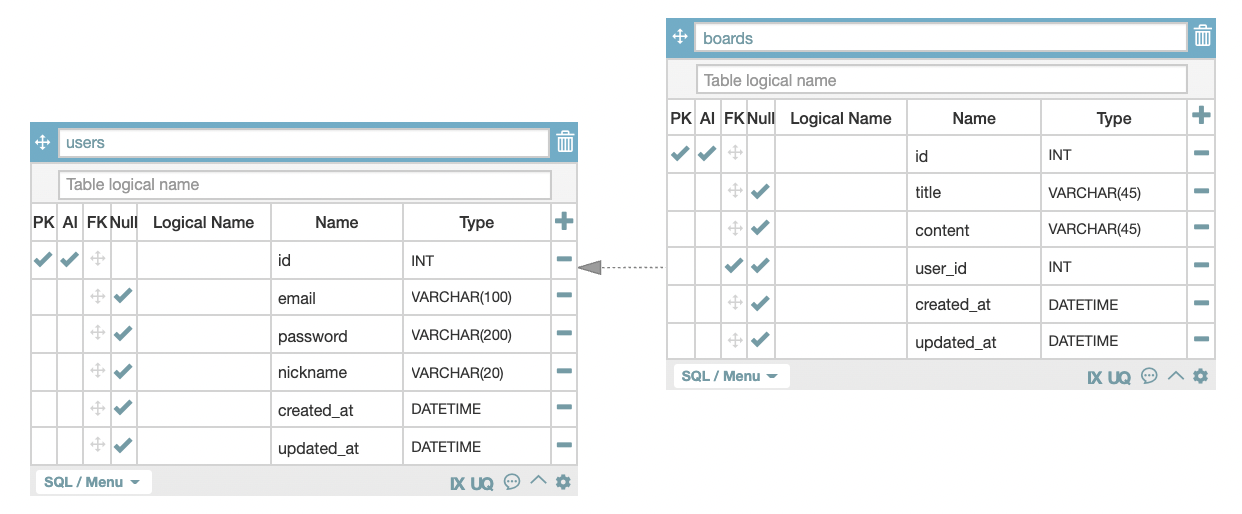
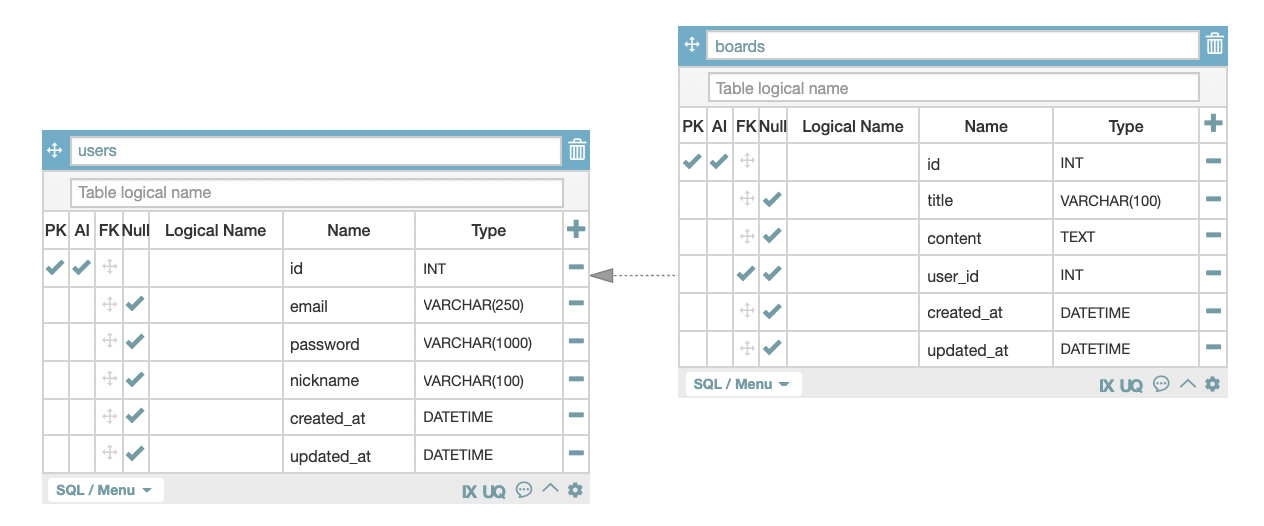
SignUpView

Changed region(s): [[0.0, 0.2179, 0.5201, 0.965], [0.5201, 0.0311, 0.9791, 0.7471], [0.5507, 0.716, 0.6119, 0.7471]]

diff --git a/users/views.py b/users/views.py
@@ -1,3 +1,39 @@
-from django.shortcuts import render
+import re
+import json
+import bcrypt
+import jwt
 
-# Create your views here.
+from django.shortcuts import render
+from django.views     import View
+from django.http      import JsonResponse
+
+from users.models import User
+
+class SignUpView(View):
+    def post(self, request):
+        data     = json.loads(request.body)
+        email    = data['email']
+        password = data['password']
+        nickname = data['nickname']
+
+        if not re.match('^[a-zA-Z\d+-.]+@[a-zA-Z\d+-.]+\.[a-zA-Z]{2,3}$', email):
+            return JsonResponse({'STATUS':'ERROR', 'MESSAGE':'Wrong E-Mail Form'}, status=400)
+
+        if not re.match('^(?=.*[A-Za-z])(?=.*\d)(?=.*[!@#$%^&*])[A-Za-z\d!@#$%^&*]{10,}$', password):
+            return JsonResponse({'STATUS':'ERROR', 'MESSAGE':'Wrong E-Mail Form'}, status=400)
+
+        if User.objects.filter(email = email).exists():
+                return JsonResponse({'STATUS':'ERROR', 'MESSAGE':'Existing E-Mail'}, status = 409)
+        
+        if User.objects.filter(nickname = nickname).exists():
+                return JsonResponse({'STATUS':'ERROR', 'MESSAGE':'Existing Nickname'}, status = 409)
+
+        decoded_password = bcrypt.hashpw(password.encode('utf-8'), bcrypt.gensalt().decode('utf-8'))
+
+        User.objects.create(
+            email    = email,
+            password = decoded_password,
+            nickname = nickname,
+        )
+
+        return JsonResponse({'STATUS':'SUCCESS', 'MESSAGE':'User Created!'}, status=201)

diff --git a/boards/migrations/0001_initial.py b/boards/migrations/0001_initial.py
@@ -1,0 +1,30 @@
+# Generated by Django 3.2.8 on 2021-10-21 05:42
+
+from django.db import migrations, models
+import django.db.models.deletion
+
+
+class Migration(migrations.Migration):
+
+    initial = True
+
+    dependencies = [
+        ('users', '0001_initial'),
+    ]
+
+    operations = [
+        migrations.CreateModel(
+            name='Board',
+            fields=[
+                ('id', models.BigAutoField(auto_created=True, primary_key=True, serialize=False, verbose_name='ID')),
+                ('created_at', models.DateTimeField(auto_now_add=True)),
+                ('updated_at', models.DateTimeField(auto_now=True)),
+                ('title', models.CharField(max_length=100)),
+                ('content', models.TextField()),
+                ('user', models.ForeignKey(on_delete=django.db.models.deletion.CASCADE, to='users.user')),
+            ],
+            options={
+                'db_table': 'boards',
+            },
+        ),
+    ]

diff --git a/users/migrations/0001_initial.py b/users/migrations/0001_initial.py
@@ -1,0 +1,28 @@
+# Generated by Django 3.2.8 on 2021-10-21 05:42
+
+from django.db import migrations, models
+
+
+class Migration(migrations.Migration):
+
+    initial = True
+
+    dependencies = [
+    ]
+
+    operations = [
+        migrations.CreateModel(
+            name='User',
+            fields=[
+                ('id', models.BigAutoField(auto_created=True, primary_key=True, serialize=False, verbose_name='ID')),
+                ('created_at', models.DateTimeField(auto_now_add=True)),
+                ('updated_at', models.DateTimeField(auto_now=True)),
+                ('email', models.EmailField(max_length=250, unique=True)),
+                ('password', models.CharField(max_length=1000)),
+                ('nickname', models.CharField(max_length=100)),
+            ],
+            options={
+                'db_table': 'users',
+            },
+        ),
+    ]

diff --git a/prewanted/settings.py b/prewanted/settings.py
@@ -27,7 +27,7 @@ INSTALLED_APPS = [
     'django.contrib.messages',
     'django.contrib.staticfiles',
     'corsheaders',
-    'core'
+    'core',
     'users',
     'boards',
 ]
